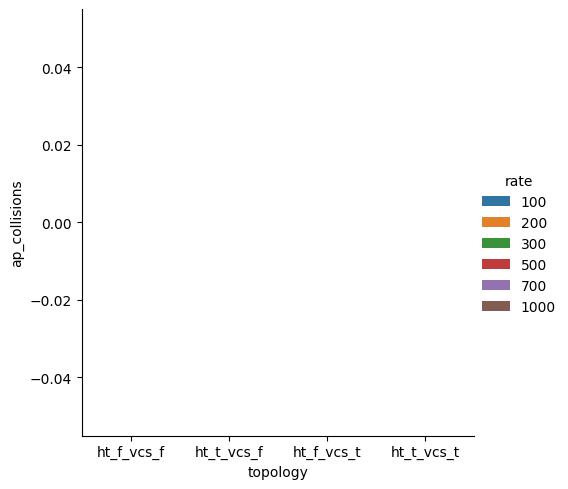
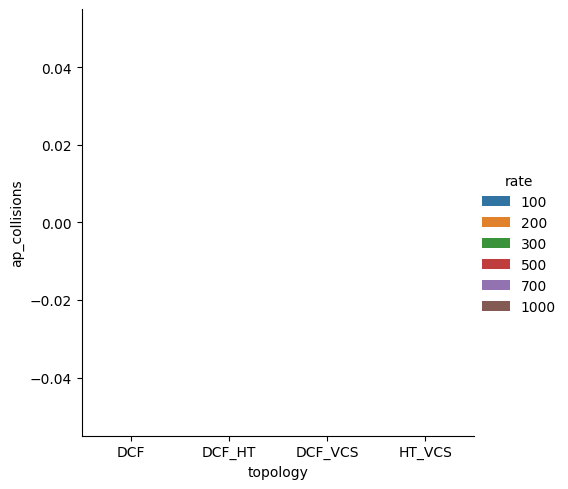
Working on VCS

diff --git a/csma_ca.py b/csma_ca.py
@@ -2,18 +2,12 @@
 
 # Authors: Antonios J. Bokas & Jamie Cookson
 
-# To-do:
-# - Fix problems with VCS and hidden terminal. The logic is difficult to add.
-#   We need to go through it step by step to make sense of it. I made the logic
-#   more complex again, so it's a bit harder... hopefully tomorrow I can revisit.
-
 import time
 from random import randint
 
 import numpy as np
 import pandas as pd
 import seaborn as sb
-from matplotlib import pyplot
 
 # CONSTANTS
 
@@ -37,13 +31,6 @@ class App:
         self.write_times: list = []
         self.next_write: int = 0
 
-    def state(self):
-        s = f'{self}:\n'
-        s += f'    station: {self.station}\n'
-        s += f'    write_times (next 3): {self.write_times[:3]}\n'
-        s += f'    next_write: {self.next_write}\n'
-        return s
-
     def generate_traffic(self, rate):
         U = np.random.uniform(0, 1, rate*SIM_TIME)  # uniform dist
         X = ((-1/rate) * np.log(1-U))/SLOT_SIZE     # exponential dist
@@ -57,39 +44,32 @@ class App:
 
 
 class Station:
-    def __init__(self, virtual_cs: bool = False):
+    def __init__(self, vcs: bool = False):
+        # VCS attributes:
+        self.vcs: bool = vcs
+        self.rts: int = RTS if vcs else 0
+
+        # Domain attributes:
         self.domain: CollisionDomain = None
         self.access_pt: AccessPoint = None
+
+        # Transmission attributes:
         self.buffer: list = []
         self.difs = DIFS
         self.backoff = randint(0, CW)
-        self.freeze_time: int = 0
+        self.nav: int = 0
         self.transmission: int = 0
         self.collisions: int = 0
         self.cw: int = 0
         self.sending: bool = False
         self.awaiting_ack: bool = False
-        self.virtual_cs: bool = virtual_cs
-        self.rts: int = RTS
+
+        # Stat counters:
         self.transfer_timer: int = 0
         self.tot_trans_size: int = 0
         self.tot_trans_time: int = 0
         self.tot_successes: int = 0
         self.tot_collisions: int = 0
-
-    def state(self):
-        s = f'{self}:\n'
-        s += f'    domain: {self.domain}\n'
-        s += f'    access_pt: {self.access_pt}\n'
-        s += f'    buffer (first 3): {self.buffer[:3]}\n'
-        s += f'    difs: {self.difs}\n'
-        s += f'    backoff: {self.backoff}\n'
-        s += f'    freeze_time: {self.freeze_time}\n'
-        s += f'    collisions: {self.collisions}\n'
-        s += f'    cw: {self.cw}\n'
-        s += f'    sending: {self.sending}\n'
-        s += f'    awaiting_ack: {self.awaiting_ack}\n'
-        return s
 
     def double_cw(self):
         self.sending = False  # forces resend of buffered frame
@@ -102,26 +82,13 @@ class Station:
         self.tot_collisions += 1
 
     def freeze(self):
-        if self.freeze_time:
-            self.freeze_time -= 1
-        elif self.virtual_cs:
-            self.freeze_time = self.access_pt.domain.nav
-            self.difs = DIFS
+        if self.nav:
+            self.nav -= 1
         else:
-            self.freeze_time = self.domain.nav
+            self.nav = self.domain.nav
             self.difs = DIFS
 
     def try_send(self, start):
-        if self.virtual_cs:
-            if self.rts:
-                self.rts -= 1
-                return
-            elif self.domain.all_clear == self:
-                pass
-            else:
-                self.freeze()
-                return
-
         if not self.sending:
             self.sending = True
             self.transmission = self.buffer[0] / BITS_PER_SLOT + SIFS + ACK
@@ -138,37 +105,40 @@ class Station:
         else:
             self.access_pt.sifs = SIFS
             self.access_pt.ack = ACK
+            self.rts = RTS if self.vcs else 0
             self.awaiting_ack = True
 
 
 class AccessPoint:
-    def __init__(self, virtual_cs: bool = False):
+    def __init__(self, vcs: bool = False):
+        # VCS attribute:
+        self.cts: int = CTS if vcs else 0
+
+        # Domain attribute:
         self.domain: CollisionDomain = None
+
+        # Transmission attributes:
         self.ack: int = 0
         self.sifs: int = 0
-        self.virtual_cs: bool = virtual_cs
-        self.cts: int = CTS
+
+        # Stat counters:
         self.tot_collisions: int = 0
 
-    def state(self):
-        return f'{self}:\n    sifs: {self.sifs}\n    ack: {self.ack}\n'
-
-    def try_clear(self, station):
-        if self.cts > 0:
-            self.cts -= 1
-        elif not self.domain.all_clear:
-            self.domain.nav = station.transmission + SIFS
-            self.domain.transmissions += 1
-            self.domain.all_clear = station
+    def clear(self, station):
+        self.domain.all_clear = station
+        self.cts = CTS
 
     def try_ack(self, station):
         if self.domain.transmissions > 1:
             self.tot_collisions += 1
             return
+
         elif self.sifs:
             self.sifs -= 1
+
         elif self.ack:
             self.ack -= 1
+
         else:
             self.domain.nav = 0             # testing
             self.domain.transmissions -= 1  # testing
@@ -190,69 +160,46 @@ class CollisionDomain:
         self.nav: int = 0
         self.all_clear: Station = None
 
-    def state(self):
-        s = f'{str(self.__class__.__name__)}:\n'
-        s += f'    transmissions: {self.transmissions}\n'
-        s += f'    nav: {self.nav}\n'
-        return s
+
+def virtual_carrier_sensing(station, access_pt):
+    if station.domain.all_clear is not None:
+        station.freeze()
+    elif station.rts:
+        station.rts -= 1
+    elif access_pt.cts:
+        access_pt.cts -= 1
+    else:
+        access_pt.clear(station)
 
 
-def simulation_state(slot, apps, stations):
-    print('Iteration:', slot)
+def simulation(rate: int, ht: bool, vcs: bool):
+    print(f'Simulation (rate={rate}, ht={ht}, vcs={vcs})')
 
-    print('App states:')
-    for app in apps:
-        print(app.state())
-
-    print('Station states:')
-    for station in stations:
-        print(station.state())
-
-    print('Access point state:')
-    print(stations[0].access_pt.state())
-
-
-def example_poisson():
-    sample = np.random.poisson(5, 100)
-    print('Sample data:')
-    print(sample)
-
-    plot = sb.displot(data=sample, kind='hist', bins=14)
-    plot.set(title='Poisson Distribution', xlabel='event', ylabel='count')
-    pyplot.tight_layout()
-    pyplot.show()
-
-
-def simulation(rate: int, hidden_t: bool, virtual_cs: bool):
-    print(f'Simulation (rate={rate}, '
-          f'hidden_t={hidden_t}, '
-          f'virtual_cs={virtual_cs})')
-
-    # Create all the entities in the simulation:
+    # Create all entities in the simulation:
     app_A = App()
     app_B = App()
     apps = [app_A, app_B]
 
-    if virtual_cs:
-        station_A = Station(virtual_cs=True)
-        station_B = Station(virtual_cs=True)
+    if vcs:
+        station_A = Station(vcs=True)
+        station_B = Station(vcs=True)
     else:
         station_A = Station()
         station_B = Station()
 
     stations = [station_A, station_B]
 
-    access_pt = AccessPoint(virtual_cs=True) if virtual_cs else AccessPoint()
-
     # Connect the entities:
     app_A.station = station_A
     app_B.station = station_B
+
+    access_pt = AccessPoint(vcs=True) if vcs else AccessPoint()
 
     for station in stations:
         station.access_pt = access_pt
 
     # Conditional to set up single domain or hidden terminals:
-    if hidden_t:
+    if ht:
         station_A.domain = CollisionDomain()
         station_B.domain = CollisionDomain()
         access_pt.domain = CollisionDomain()
@@ -265,9 +212,9 @@ def simulation(rate: int, hidden_t: bool, virtual_cs: bool):
         app.generate_traffic(rate)
 
     # Set counters:
-    start = time.time()                     # start time
-    end = start + SIM_TIME                  # start time plus simulation time
-    slot = 0                                # slot counter
+    start = time.time()     # start time
+    end = start + SIM_TIME  # start time plus simulation time
+    slot = 0                # slot counter
 
     print(f'Start time: {start}')
 
@@ -302,13 +249,11 @@ def simulation(rate: int, hidden_t: bool, virtual_cs: bool):
                     station.double_cw()
                     station.backoff += SIFS
 
-            elif station.virtual_cs:
-                if station.rts:
-                    station.rts -= 1
-                elif station.access_pt.cts:
-                    station.access_pt.try_clear(station)
-
             elif any(station.buffer):
+                if station.vcs and station.domain.all_clear != station:
+                    virtual_carrier_sensing(station, access_pt)
+                    continue
+
                 station.try_send(start=slot)
 
         for station in stations:
@@ -318,28 +263,25 @@ def simulation(rate: int, hidden_t: bool, virtual_cs: bool):
 
     print(f'End time: {end}\n')
 
-    # simulation_state(slot, apps, stations)
+    tot_A = station_A.tot_successes + station_A.tot_collisions
+    ttt_A = station_A.tot_trans_time
+    tts_A = station_A.tot_trans_size
 
-    tA = station_A.tot_successes + station_A.tot_collisions
-    tB = station_B.tot_successes + station_B.tot_collisions
-
-    ttt = station_A.tot_trans_time
-    tts = station_A.tot_trans_size
+    tot_B = station_B.tot_successes + station_B.tot_collisions
+    ttt_B = station_B.tot_trans_time
+    tts_B = station_B.tot_trans_size
 
     stats_A = {'station': 'A',
-               'throughput': tts/ttt if ttt else 0,
+               'throughput': tts_A/ttt_A if ttt_A else 0,
                'ap_collisions': access_pt.tot_collisions,
                'collisions': station_A.tot_collisions,
-               'fairness': tA / tB if tB else 0}
-
-    ttt = station_B.tot_trans_time
-    tts = station_B.tot_trans_size
+               'fairness': tot_A / tot_B if tot_B else 0}
 
     stats_B = {'station': 'B',
-               'throughput': tts/ttt if ttt else 0,
+               'throughput': tts_B/ttt_B if ttt_B else 0,
                'ap_collisions': access_pt.tot_collisions,
                'collisions': station_B.tot_collisions,
-               'fairness': tB / tA if tA else 0}
+               'fairness': tot_B / tot_A if tot_A else 0}
 
     return [stats_A, stats_B]
 
@@ -363,16 +305,16 @@ def main():
 
     for rate in ARRIVAL_RATE:
         for station_stats in simulation(rate, False, False):
-            collect_stats(rate, 'ht_f_vcs_f', station_stats, all_stats)
+            collect_stats(rate, 'DCF', station_stats, all_stats)
 
         for station_stats in simulation(rate, True, False):
-            collect_stats(rate, 'ht_t_vcs_f', station_stats, all_stats)
+            collect_stats(rate, 'DCF_HT', station_stats, all_stats)
 
         for station_stats in simulation(rate, False, True):
-            collect_stats(rate, 'ht_f_vcs_t', station_stats, all_stats)
+            collect_stats(rate, 'DCF_VCS', station_stats, all_stats)
 
         for station_stats in simulation(rate, True, True):
-            collect_stats(rate, 'ht_t_vcs_t', station_stats, all_stats)
+            collect_stats(rate, 'HT_VCS', station_stats, all_stats)
 
     print('Creating plots...')
 
@@ -419,6 +361,7 @@ def main():
     plot.savefig('collisions_A_B.png')
 
     print('Script complete.')
+
 
 if __name__ == '__main__':
     main()
